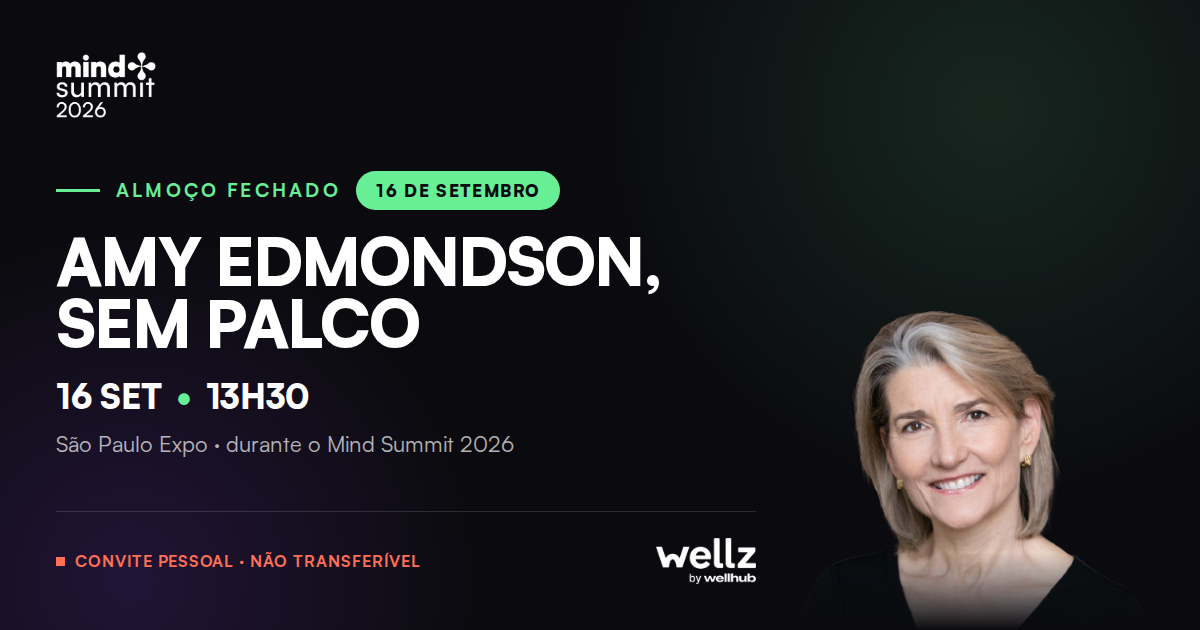
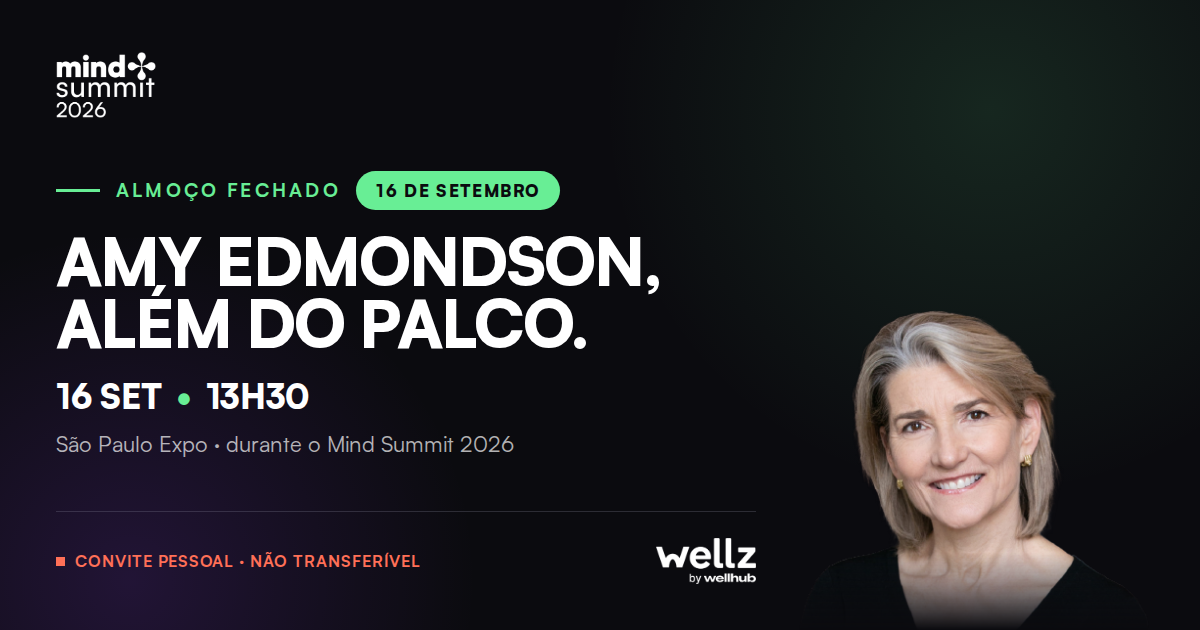
Troca o título do convite da Amy para "Amy Edmondson, além do palco."
O H1 recebe o texto exatamente como pedido, com o ponto final. A mesma
copy aparece em mais quatro superfícies e todas acompanham, senão a aba
do navegador e o preview do WhatsApp continuariam dizendo o texto antigo:
<title>, og:title, og:image:alt e tools/og-edmondson.html, que é a fonte
da thumbnail. O PNG foi regerado.

Nos títulos compostos (<title> e og:title) o ponto final sai, porque
"além do palco. — Almoço fechado" seria erro tipográfico. O ponto fica
onde o título aparece sozinho: no H1 e na thumbnail.

docs/handoff/ não muda — é o registro do design original.

Layout conferido de 360x640 a 1920x1080: o H1 segue em 2 linhas em todos
os tamanhos, sem overflow. A única mudança é em 1024x768, onde a coluna é
estreita e o texto mais longo passa de 3 para 4 linhas (+56px de altura);
nada estoura, a página só rola um pouco mais.

Claude-Session: https://claude.ai/code/session_011jAk7tdkyZ6RXMpagJ52hQ

Changed region(s): [[0.0308, 0.4524, 0.4933, 0.573]]

diff --git a/public/amy-edmondson/index.html b/public/amy-edmondson/index.html
@@ -3,14 +3,14 @@
 <head>
 <meta charset="utf-8">
 <meta name="viewport" content="width=device-width, initial-scale=1, viewport-fit=cover">
-<title>Amy Edmondson, sem palco — Almoço fechado · Mind Summit 2026</title>
+<title>Amy Edmondson, além do palco — Almoço fechado · Mind Summit 2026</title>
 <meta name="description" content="Convite pessoal para o almoço fechado com Amy Edmondson em 16 de setembro, 13h30, durante o Mind Summit 2026. Uma conversa exclusiva entre líderes sobre risco, erro e organizações que aprendem.">
 <meta name="robots" content="noindex, nofollow">
 <meta name="theme-color" content="#0B0B0F">
 
 <meta property="og:type" content="website">
 <meta property="og:locale" content="pt_BR">
-<meta property="og:title" content="Amy Edmondson, sem palco — Almoço fechado">
+<meta property="og:title" content="Amy Edmondson, além do palco — Almoço fechado">
 <meta property="og:description" content="16 de setembro, 13h30 · São Paulo Expo. Uma conversa exclusiva entre líderes sobre risco, erro e como construir organizações que aprendem mais rápido do que o mundo muda.">
 <meta property="og:site_name" content="Mind Summit 2026">
 <!-- Thumbnail de link (WhatsApp, e-mail, Slack, LinkedIn), gerada por
@@ -21,7 +21,7 @@
 <meta property="og:image:type" content="image/png">
 <meta property="og:image:width" content="1200">
 <meta property="og:image:height" content="630">
-<meta property="og:image:alt" content="Amy Edmondson, sem palco — almoço fechado, 16 de setembro, 13h30, São Paulo Expo">
+<meta property="og:image:alt" content="Amy Edmondson, além do palco — almoço fechado, 16 de setembro, 13h30, São Paulo Expo">
 <meta name="twitter:card" content="summary_large_image">
 <meta name="twitter:image" content="https://convite.mindsummit.company/assets/og-image.png">
 
@@ -60,7 +60,7 @@
             <span class="eyebrow__label">Almoço fechado</span>
             <span class="eyebrow__pill">16 de setembro</span>
           </div>
-          <h1 class="intro__title" id="titulo-convite">Amy Edmondson, sem palco</h1>
+          <h1 class="intro__title" id="titulo-convite">Amy Edmondson, além do palco.</h1>
           <p class="intro__lead">Uma conversa exclusiva entre líderes sobre risco, erro e como construir organizações que aprendem mais rápido do que o mundo muda.</p>
         </section>
 

diff --git a/tools/og-edmondson.html b/tools/og-edmondson.html
@@ -221,7 +221,7 @@
         <span class="og__label">Almoço fechado</span>
         <span class="og__pill">16 de setembro</span>
       </div>
-      <h1 class="og__title">Amy Edmondson, sem palco</h1>
+      <h1 class="og__title">Amy Edmondson, além do palco.</h1>
       <div class="og__meta">
         <p class="og__when"><span>16 SET</span><span class="og__bullet">•</span><span>13H30</span></p>
         <p class="og__place">São Paulo Expo · durante o Mind Summit 2026</p>
